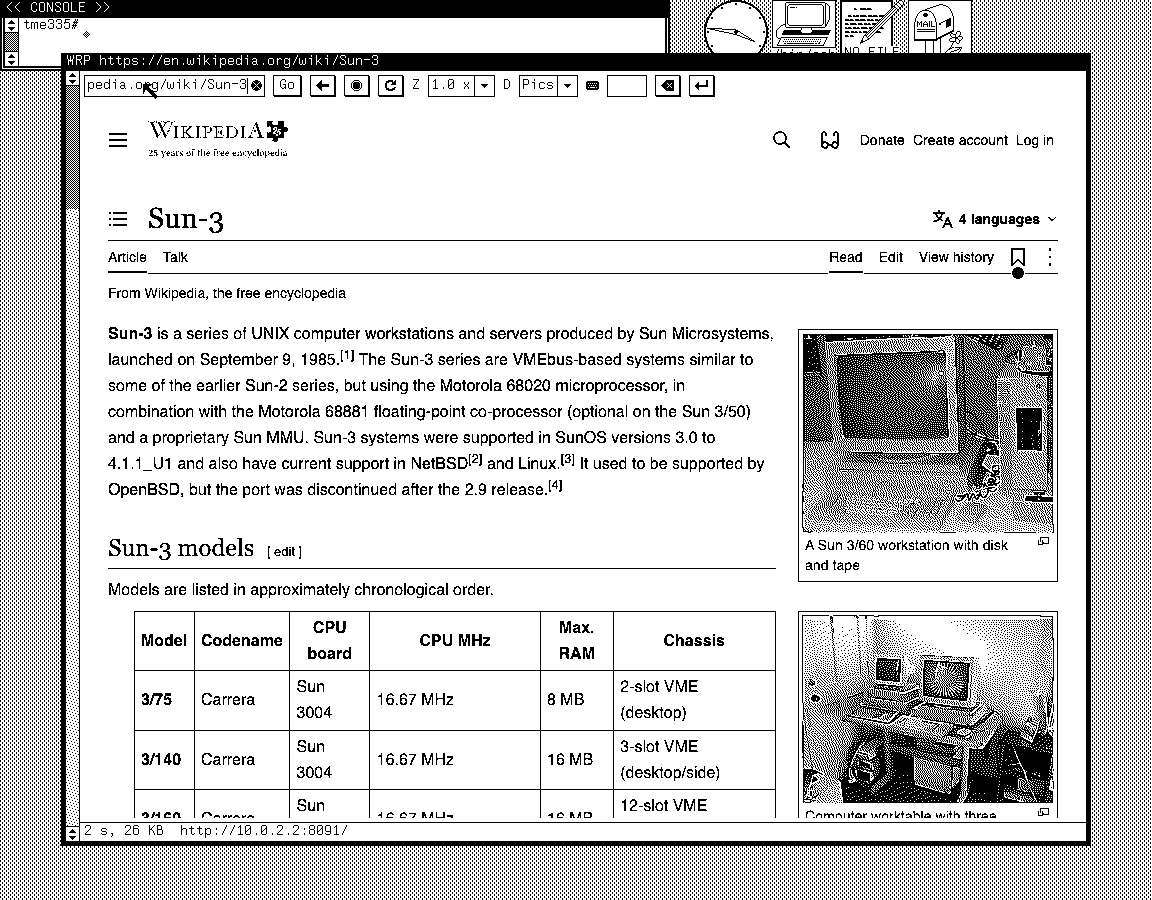
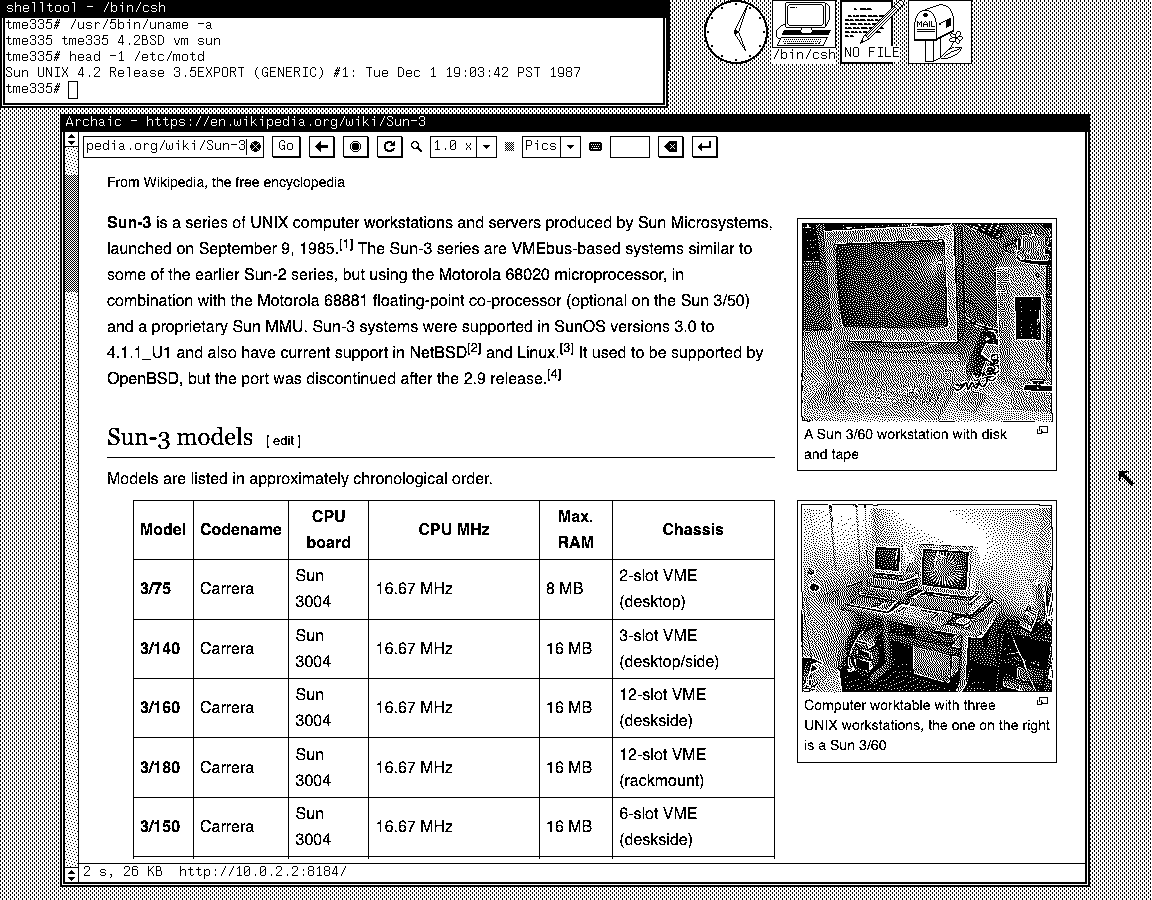
screenshots of 0.7, with uname -a: the 3b1, sunos 4 and 3.5, hp-ux
New pictures of each system's own screen and of its emulator's window,
taken in private kit copies: a terminal with uname -a, and Archaic 0.7
with the system's Wikipedia article. The readme now shows HP-UX in its
LEMU window too. AGENTS.md: SunOS 3.5 has System V's uname in /usr/5bin;
new build sizes.

Changed region(s): [[0.0, 0.0, 0.9688, 0.9956]]

diff --git a/AGENTS.md b/AGENTS.md
@@ -719,8 +719,9 @@ Test on a copy of your Idris disk.
 - In the FreeBee kit, your computer is `10.0.2.2` for the 3B1, as for Idris.
   So Archaic on the 3B1 looks for WRP at `http://10.0.2.2:8080/`.
 - The 3B1 has no DNS: give WRP's address as numbers, or put the name in `/etc/hosts`.
-- `screenshots/unixpc.png`: the 3B1's screen in FreeBee (green on black), 720 x 348.
-  Wikipedia's AT&T UNIX PC article, after one click on the ↓ button.
+- `screenshots/unixpc.png`: the 3B1's screen in FreeBee (green on black), 720 x 348:
+  `uname -a` in the console, and Archaic in a smaller window (`-g 686x212+0+48`) with
+  Wikipedia's AT&T UNIX PC article.
 
 ## Building on the AT&T UNIX PC (3B1)
 
@@ -732,7 +733,7 @@ Needs **gcc** (2.5.8 in `/usr/local/bin`: the FreeBee kit has it) and WIN/TCP.
 2. Build:
 
    ```
-   sh mkunixpc     # compile and link: archaic, about 62 KB
+   sh mkunixpc     # compile and link: archaic, about 66 KB
    ```
 
    It takes about 1 minute in FreeBee at turbo 10.
@@ -834,7 +835,7 @@ Test on a copy of your 3B1 disk.
   SunOS has no name server there: give addresses as numbers.
 - On a color screen (8 bits, as the cg3) the pictures have up to 128 colors (see Colors).
 - `screenshots/sunview.png`: the SPARCstation's screen (cg3), 1152 x 900:
-  Wikipedia's SunView article in 128 colors, in 1 s.
+  `uname -a` in the console, and Wikipedia's SunView article in 128 colors, in 1 s.
 
 ## Building on SunOS 4 (SunView)
 
@@ -848,7 +849,7 @@ Needs Sun's C compiler, `cc` (the kit has it), and SunView's libraries in `/usr/
 2. Build:
 
    ```
-   sh mksunview    # compile and link: archaic, about 96 KB
+   sh mksunview    # compile and link: archaic, about 104 KB
    ```
 
    It takes about 6 s in the kit.
@@ -932,7 +933,8 @@ Test on a copy of your SunOS disk.
 - With TME's slirp, your computer is `10.0.2.2` for SunOS (SunOS is `10.0.2.15`).
   So Archaic on a Sun-3 looks for WRP at `http://10.0.2.2:8080/`.
 - `screenshots/sun3.png`: the Sun-3's screen (bwtwo), 1152 x 900, black and white:
-  Wikipedia's Sun-3 article, in 2 s.
+  `/usr/5bin/uname -a` and the release line of `/etc/motd` in a shelltool,
+  and Wikipedia's Sun-3 article, in 2 s.
 
 ## Building on SunOS 3.5
 
@@ -975,7 +977,9 @@ Test on a copy of your SunOS disk.
 - `stderr` is buffered when it goes to a file: Archaic flushes each `-v` line.
 - For Archaic, SunView is the same as on SunOS 4: the same toolkit calls, and the same
   variables for a program started from rsh (`WINDOW_PARENT=/dev/win0`, `WMGR_ENV_PLACEHOLDER=/dev/win1`).
-- The shell's tools are old: no `uname` and no `printf`, and `grep` has no `\|` (use `egrep`).
+- The shell's tools are old: no `printf`, and `grep` has no `\|` (use `egrep`).
+  `uname` is only System V's, `/usr/5bin/uname`: it is not on root's path, and it does not
+  name the release. `head -1 /etc/motd` does.
 
 ## Running on HP-UX 9
 
@@ -991,7 +995,7 @@ Test on a copy of your SunOS disk.
   HP-UX has no name server in the kit: give addresses as numbers.
 - The screen has 8 bits, so the pictures have the 216 web colors (see 216 colors: GIP).
 - `screenshots/hpux.png`: the 715's screen, 1280 x 1024, in HP VUE:
-  Wikipedia's HP-UX article in 216 colors, in 7 s.
+  `uname -a` in an hpterm, and Wikipedia's HP-UX article in 216 colors, in 7 s.
 
 ## Building on HP-UX 9
 
@@ -1002,7 +1006,7 @@ Needs HP's C compiler, `cc` (the kit has HP C A.09.73), and X11R5 (HP-UX 9 has i
 2. Build:
 
    ```
-   sh mkhpux       # compile and link: archaic, about 110 KB
+   sh mkhpux       # compile and link: archaic, about 112 KB
    ```
 
    It takes about 3 s in the kit.

diff --git a/README.md b/README.md
@@ -23,6 +23,8 @@ This allows to pre-load and optimize, cache, send only small chunks of the page 
 
 ![Archaic in TME: SunOS 3.5 with SunView on a Sun-3/160, showing Wikipedia](screenshots/tme.png)
 
+![Archaic in LEMU (QEMU): HP-UX 9.05 with HP VUE on an HP 9000/715, showing Wikipedia in 216 colors](screenshots/lemu-hpux.png)
+
 ## Platforms
 
 | System | Window system | Network | Get it |
